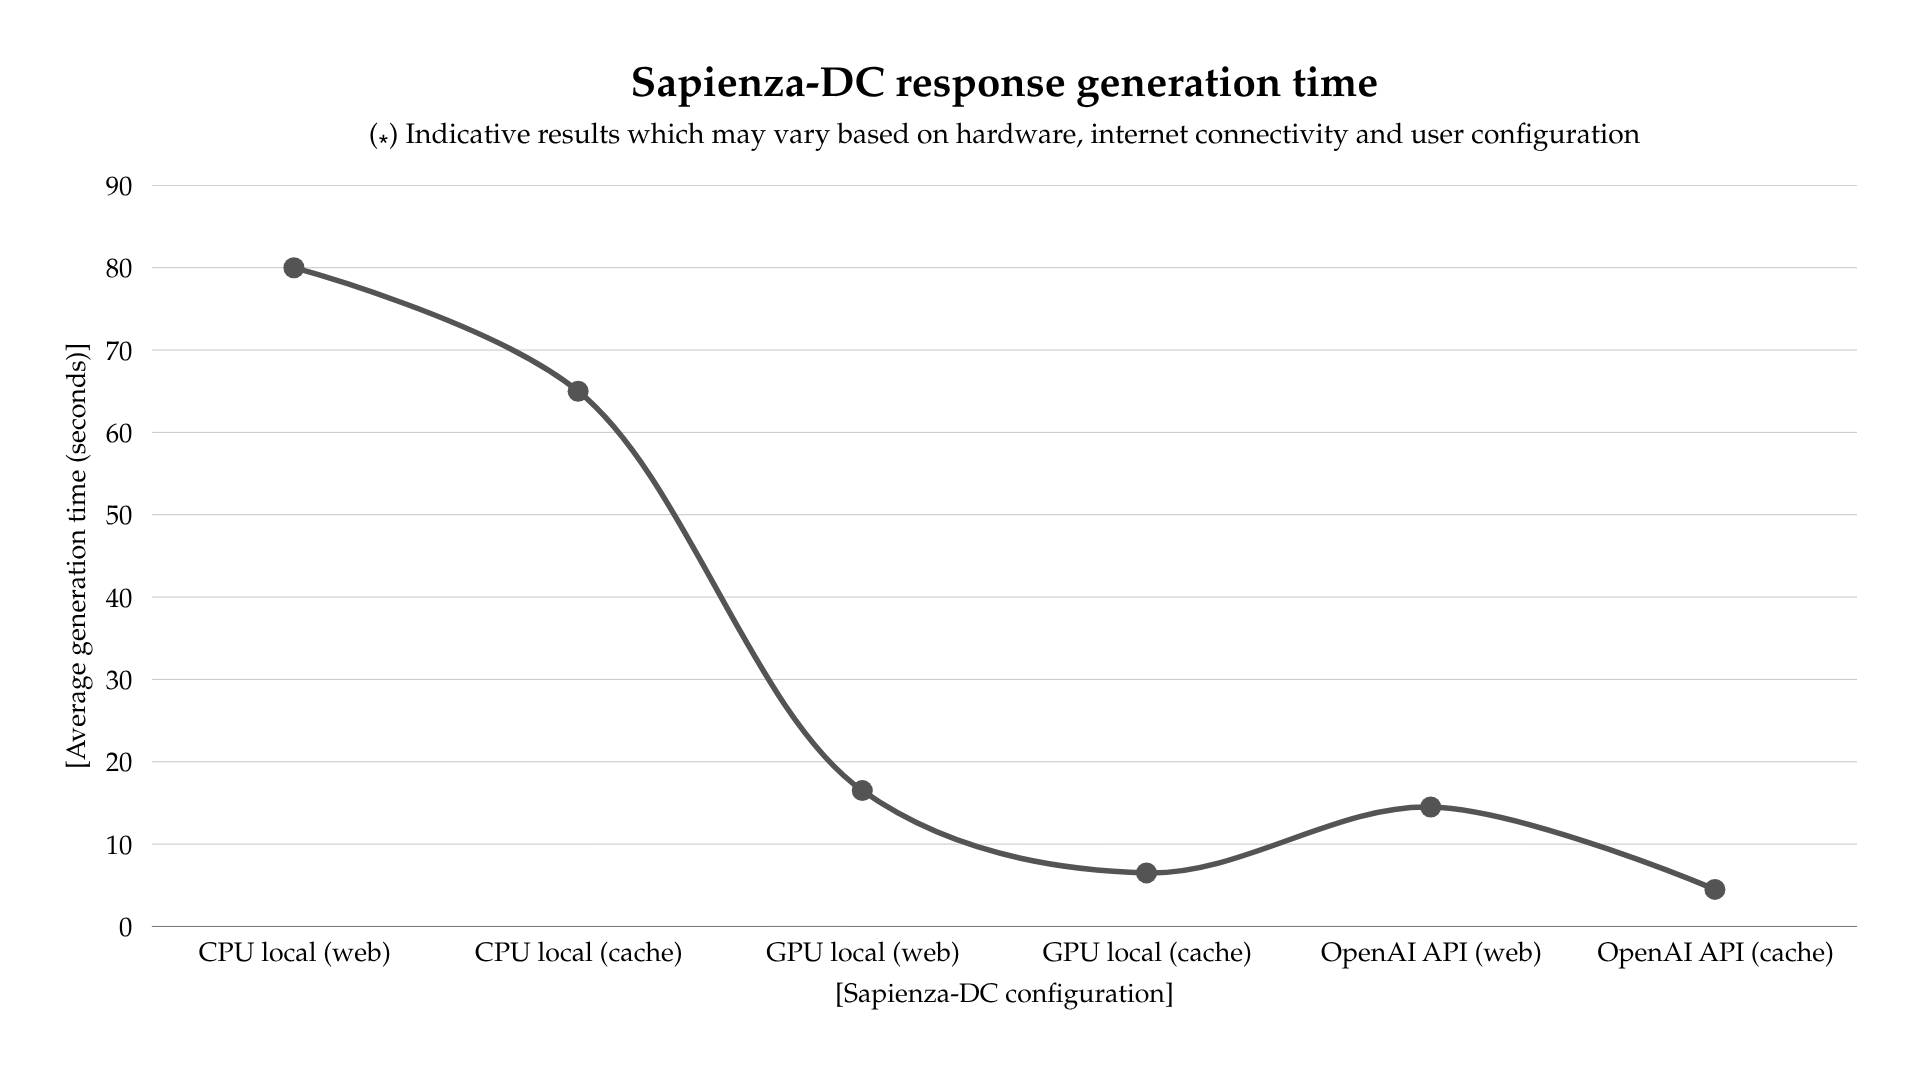
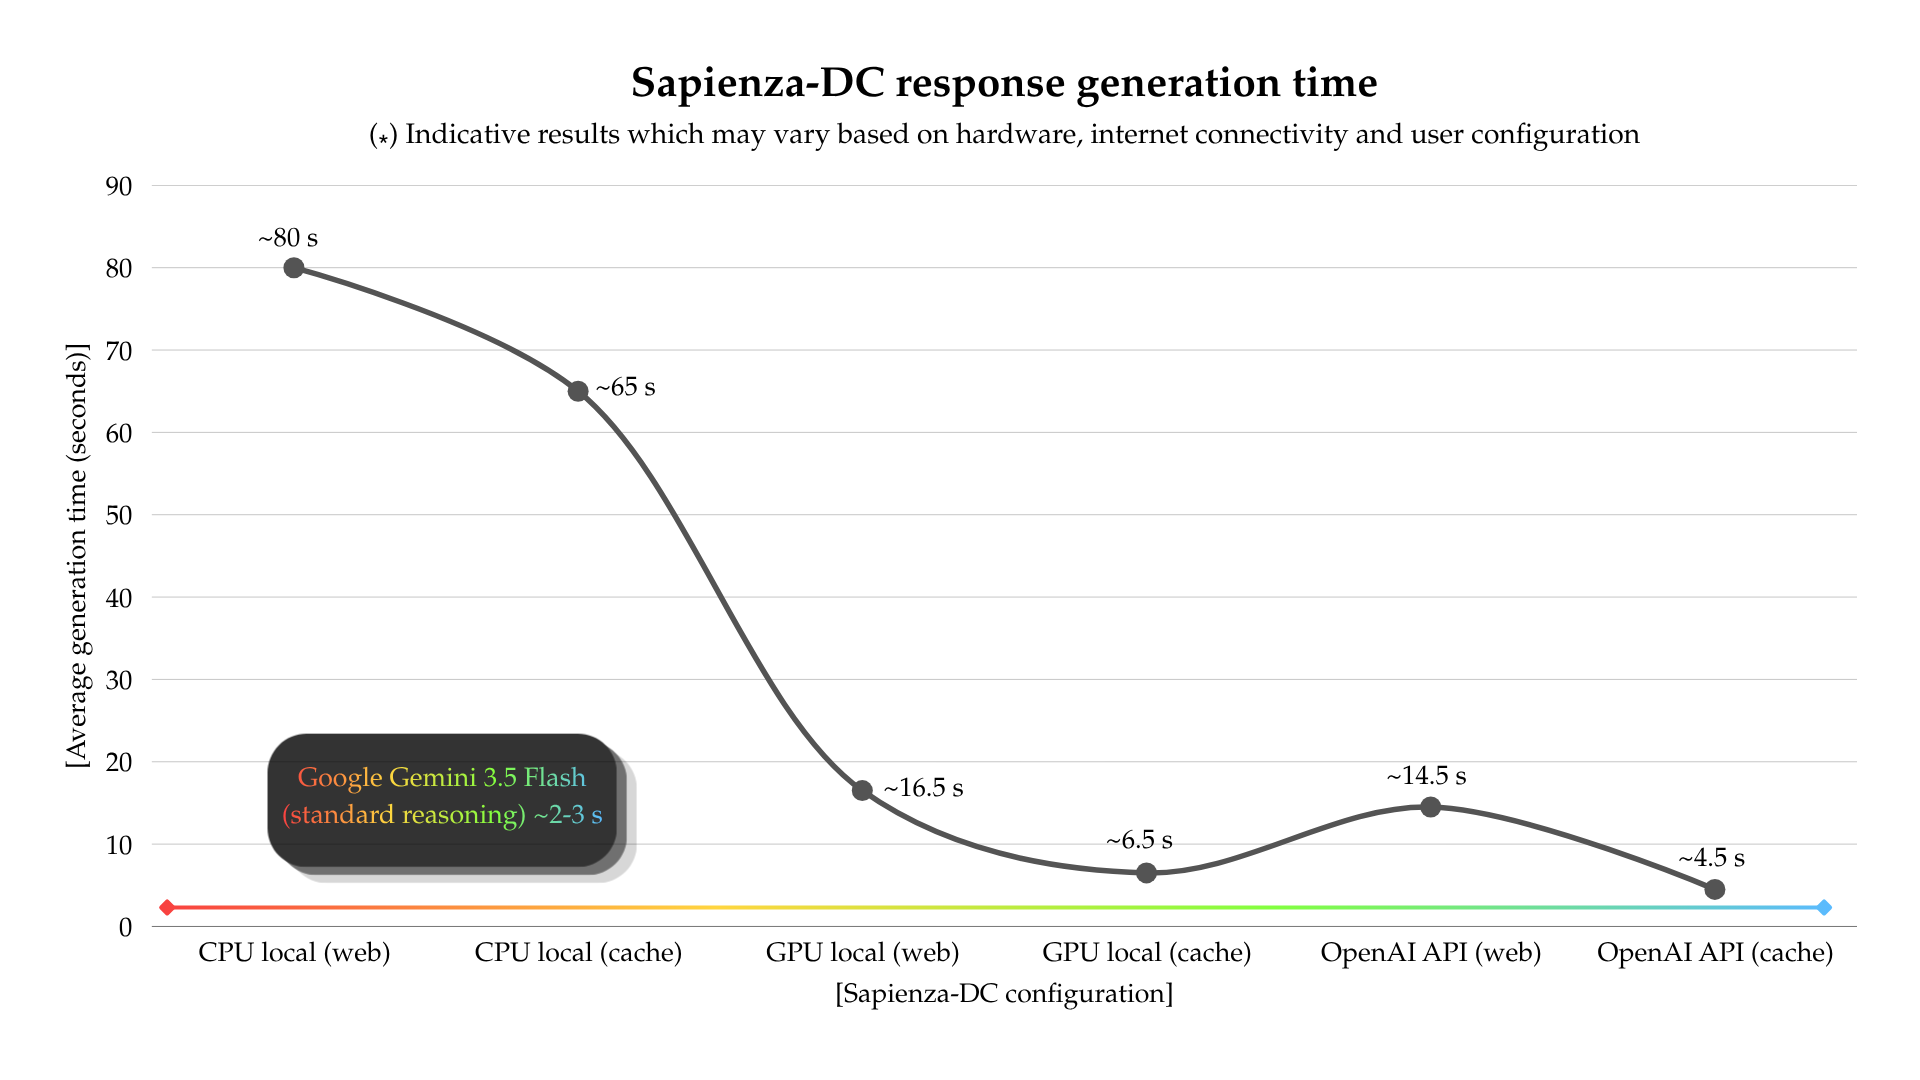
add: ai generated images disclaimer + small changes in c2 and c7

diff --git a/chapters/02_tecnologie.tex b/chapters/02_tecnologie.tex
@@ -79,15 +79,15 @@ SentenceTransformers~\cite{sentencetransformers_docs} è un framework ideato per
 \subsection{Ollama e llama.cpp}
 Ollama~\cite{ollama_docs} è un framework open source concepito per semplificare l'esecuzione, la configurazione e la gestione locale degli LLM su sistemi operativi come macOS, Windows e Linux.
 
-Il framework espone un set di API RESTful standard che consente di interagire programmaticamente con i modelli scaricati. Grazie al supporto di librerie ufficiali e sviluppate dalla community per linguaggi come Python e JavaScript, è possibile integrare le capacità di ragionamento degli LLM all'interno di applicazioni, script o flussi di lavoro aziendali in modo estremamente semplice.
+Il framework espone una serie di API RESTful standard che consentono di interagire programmaticamente con i modelli scaricati localmente. Grazie al supporto di librerie ufficiali e sviluppate dalla community per linguaggi come Python e JavaScript, è possibile inoltre integrare le capacità di ragionamento degli LLM all'interno di applicazioni, script o flussi di lavoro aziendali in modo estremamente semplice.
 
 Ollama offre, oltretutto, un'immagine Docker ufficiale da eseguire in un opportuno container. Maggiori informazioni su Docker e sul concetto di container verranno fornite nella relativa sezione di questo capitolo.
 
-Si noti per di più che, poiché i modelli sono eseguiti interamente in locale, il sistema non trasmette alcuna informazione a server esterni, garantendo massima privacy e totale indipendenza da connessioni internet o provider terzi.
+Si noti per di più che, poiché i modelli sono eseguiti interamente in locale, il sistema non trasmette alcuna informazione a server esterni, garantendo massima privacy e totale indipendenza da connessioni internet o provider di terza parte.
 
-Inoltre, giacché l'elaborazione grava esclusivamente sull'hardware dell'utente, il costo marginale per ogni singola query posta all'LLM diviene fondamentalmente nullo.
+Inoltre, giacché l'elaborazione viene effettuata direttamente sull'hardware dell'utente, il costo di ogni singola query posta all'LLM diviene fondamentalmente nullo.
 
-In aggiunta a ciò, il framework supporta e aggiorna costantemente una libreria di modelli open weights, tra cui Llama, Mistral, Gemma e Phi-3, permettendo di selezionare l'architettura più idonea in base al caso d'uso specifico.
+In aggiunta a ciò, il framework supporta e aggiorna costantemente una libreria di modelli pubblici, tra cui Llama, Mistral, Gemma e Phi-3, permettendo di selezionare l'architettura più idonea alle proprie necessità.
 
 \begin{figure}[htbp]
     \centering
@@ -99,7 +99,7 @@ In aggiunta a ciò, il framework supporta e aggiorna costantemente una libreria 
 
 Per permettere a reti neurali complesse di funzionare su hardware consumer, Ollama implementa un processo noto come quantizzazione dei modelli. Questa tecnica riduce la precisione matematica dei pesi dell'LLM, abbattendo pertanto in maniera drastica la quantità di RAM nonché la potenza di calcolo richieste per l'esecuzione del modello.
 
-Tuttavia, questo approccio comporta alcuni trade-off inevitabili. In primis, a causa dei limiti hardware dei dispositivi consumer, i modelli eseguiti localmente presentano un numero di parametri inferiore e, conseguentemente, una qualità dell'output e capacità di ragionamento più limitate.
+Tuttavia, questo approccio comporta alcuni \textit{trade-off}\footnote{tradeoff: compromesso per il quale al fine di ottenere un vantaggio si accetta di cedere o rinunciare a qualcos'altro.}  inevitabili. In primis, a causa dei limiti hardware dei dispositivi consumer, i modelli eseguiti localmente presentano un numero di parametri inferiore e, conseguentemente, una qualità dell'output e capacità di ragionamento più limitate.
 
 In secondo luogo, l'effettiva velocità di esecuzione di Ollama è rigidamente vincolata all'hardware della macchina ospitante, prediligendo architetture basate su GPU a quelle CPU. Naturalmente, l'esecuzione di un LLM tramite Ollama è comunque possibile su macchine sprovviste di GPU, a patto di accettare un'inferenza più lenta del modello.
 
@@ -169,7 +169,8 @@ Alcuni vantaggi di questo approccio includono, ad esempio, una migliore scalabil
 \begin{figure}[H]
     \centering
     \includegraphics[width=1.0\textwidth]{diagramma_architettura_client_server.png}
-    \caption{Diagramma sull'architettura client-server.}
+    \caption{Diagramma\protect\footnotemark\ sull'architettura client-server.}
     \label{fig:diagramma_architettura_client_server}
 \end{figure}
 
+\footnotetext{\textbf{N.B.} Immagine di base generata dall'autore mediante IA (\textit{Nano Banana}, modello basato su Google Gemini) in data \textit{4 Giugno 2026}. A tal riguardo, è stato utilizzato il seguente prompt: \textit{«A clean vector illustration of a client-server architecture. On the left, a modern laptop representing the client. On the right, a server rack with a small database icon next to it. In the top center, a simple cloud icon representing the internet. Employ a minimalist tech style, white background, isometric perspective, containing the most relevant facts regarding this type of architecture.»}. L'immagine generata è stata successivamente rielaborata, modificata e annotata manualmente dall'autore.}

diff --git a/chapters/04_architettura.tex b/chapters/04_architettura.tex
@@ -6,9 +6,11 @@ I microservizi che costituiscono l'applicazione sono tre e consistono sommariame
 \begin{figure}[H]
     \centering
     \includegraphics[width=1.0\textwidth]{diagramma_architetturale_sdc.png}
-    \caption{Diagramma architetturale di Sapienza-DC.}
+    \caption{Diagramma\protect\footnotemark{} architetturale di Sapienza-DC.}
     \label{fig:diagramma_architetturale_sdc}
 \end{figure}
+
+\footnotetext{\textbf{N.B.} Immagine di base generata dall'autore mediante IA (\textit{Nano Banana}, modello basato su Google Gemini) in data \textit{6 Giugno 2026}. A tal riguardo, è stato utilizzato il seguente prompt: \textit{«A clean, flat-design system architecture diagram template in light blue and grey tones. The layout must include a user icon on the left, a frontend web browser interface block, a large central backend block featuring an AI brain with gears, a database cylinder icon on the top right, and a web scraper globe icon on the bottom right. Blocks are connected by straight horizontal arrows. The entire system is enclosed in a dashed boundary line. Use a minimalist corporate IT style, with a white background, suitable for adding text later.»}. L'immagine generata è stata successivamente rielaborata, modificata e annotata manualmente dall'autore.}
 
 In realtà, l'applicazione non potrebbe operare correttamente senza un quarto microservizio, esterno al progetto, al quale il backend effettua a sua volta richieste di parsing. 
 

diff --git a/chapters/05_implementazione.tex b/chapters/05_implementazione.tex
@@ -112,7 +112,7 @@ A questo punto, dati gli URL ottenuti da una query al motore di ricerca e il dom
     \label{fig:mwp_parsing_rag}
 \end{figure}
 
-Naturalmente, come già precedentemente sottolineato, risulta impossibile effettuare quest'operazione senza introdurre una quantità minima di rumore (dati inutili) dovuto alla sostanziale differenza che si può avere tra pagine di domini diversi. Si tratta di un \textit{trade-off}\footnote{tradeoff: compromesso per il quale al fine di ottenere un vantaggio si accetta di cedere o rinunciare a qualcos'altro.} che abbiamo ritenuto accettabile.
+Naturalmente, come già precedentemente sottolineato, risulta impossibile effettuare quest'operazione senza introdurre una quantità minima di rumore (dati inutili) dovuto alla sostanziale differenza che si può avere tra pagine di domini diversi. Si tratta di un trade-off che abbiamo ritenuto accettabile.
 
 \subsection{Supplemento dei dati ottenuti tramite generic parsing}
 Per permettere all'LLM che risponde alla query dell'utente di disporre della massima quantità di informazioni relative all'argomento della conversazione, ogni ricerca per il dominio \textit{X} viene supplementata con i primi \textit{k} risultati della stessa ricerca effettuata su domini generici, purché il dominio scelto dal guardrail non sia già \texttt{"⁎"}.

diff --git a/chapters/07_conclusioni.tex b/chapters/07_conclusioni.tex
@@ -7,7 +7,7 @@ L'approccio modulare adottato in fase di progettazione e di sviluppo si è rivel
 In aggiunta a ciò, la capacità del sistema di valutare criticamente l'affidabilità delle fonti reperite e di fornire puntualmente i riferimenti a corredo delle risposte generate, rappresenta un valore aggiunto cruciale del lavoro presentato. Tale qualità  risponde estensivamente alle esigenze di trasparenza, oggettività e verificabilità delle informazioni fornite, aspetti divenuti imprescindibili nell'odierno panorama dell'intelligenza artificiale generativa. ove il fenomeno delle cosiddette allucinazioni costituisce una problematica tutt'altro che irrilevante. I risultati ottenuti durante le fasi di benchmark qualitativo sono incoraggianti e confermano definitivamente la validità delle scelte architetturali e tecnologiche adottate nel corso dello sviluppo della pipeline RAG.
 
 \section{Sviluppi futuri}
-Nonostante gli ottimi traguardi raggiunti e le prestazioni osservate, l'architettura di Sapienza-DC è stata concepita sin dalle prime fasi di progettazione per essere estesa ulteriormente, lasciando pertanto spazio a molteplici e interessanti funzionalità aggiuntive. Di seguito vengono illustrate le principali idee che potrebbero costituire basi solide per nuove iterazioni di sviluppo del progetto.
+Nonostante i traguardi raggiunti dal progetto siano degni di nota, l'architettura di Sapienza-DC è stata concepita sin dalle prime fasi di progettazione per essere modulare e di conseguenza facilmente estensibile, lasciando pertanto spazio all'implementazione di molteplici e interessanti funzionalità aggiuntive. Di seguito vengono illustrate alcune tra le principali idee che potrebbero costituire basi solide per nuove iterazioni di sviluppo del progetto.
 
 \subsection{Miglioramento della sicurezza e analisi etica delle query proposte}
 Sebbene il sistema implementi già un'architettura Zero-Trust nonché difese stratificate contro la manipolazione emotiva e attacchi di persona replacement, le tecniche di prompt injection ideate da utenti malintenzionati sono in continua e rapida evoluzione. Uno sviluppo futuro estremamente auspicabile consisterebbe nell'integrazione di un modello LLM di dimensioni contenute, o di un classificatore specializzato, dedicato esclusivamente alla \textit{sanitization}\footnote{sanitization: dall'inglese, ``sanificazione''} e al filtraggio preventivo dell'input dell'utente. 

diff --git a/thesis.tex b/thesis.tex
@@ -84,7 +84,7 @@
 
 % Scommenta la riga seguente e specifica il file (o i file separati da virgola) a cui stai lavorando
 % Questo velocizzerà drasticamente la compilazione saltando gli altri capitoli, ma mantenendone riferimenti e numeri di pagina.
-%\includeonly{chapters/06_ottimizzazioni}
+% \includeonly{chapters/04_architettura}
 
 \begin{document}
 